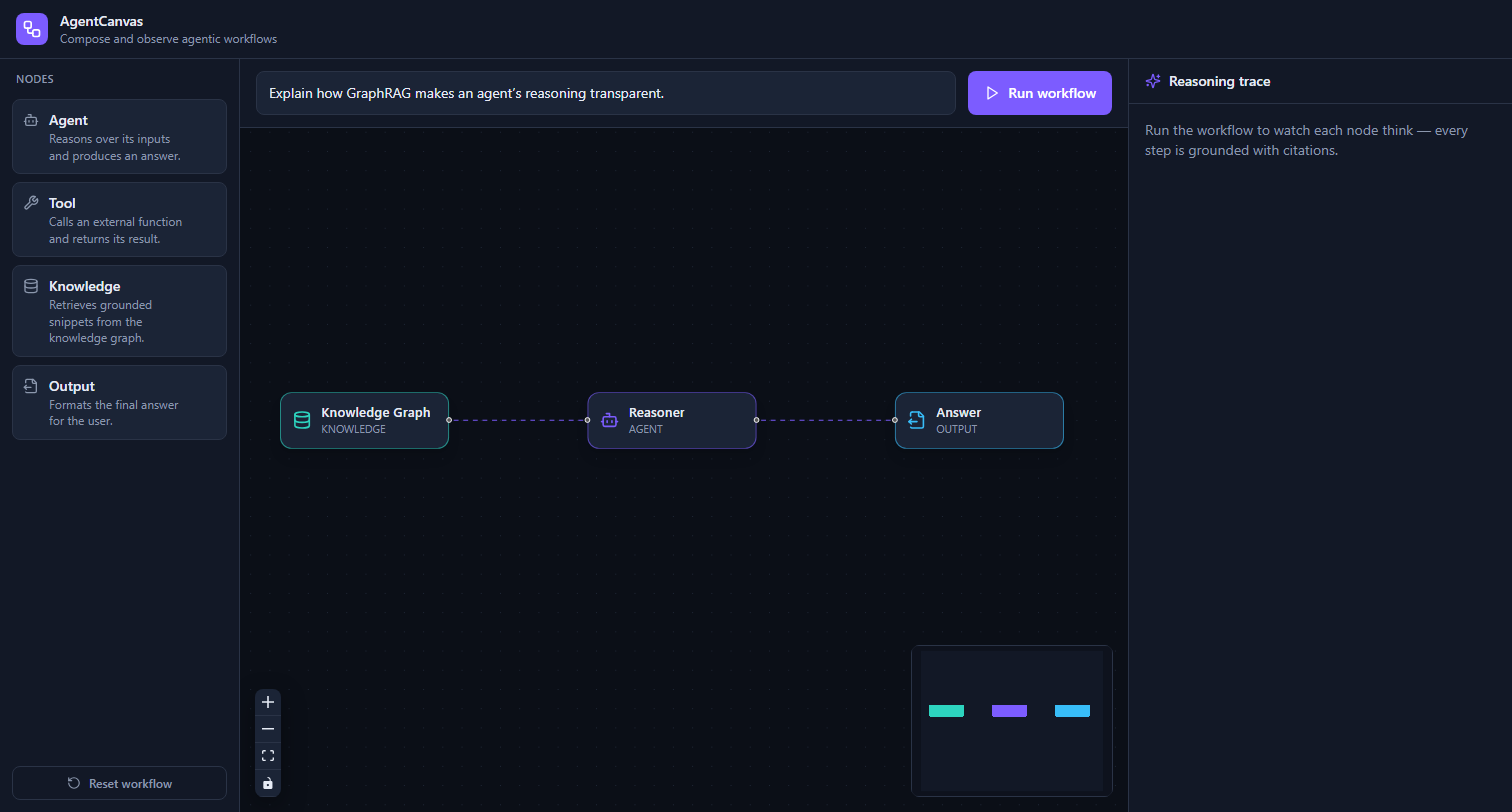
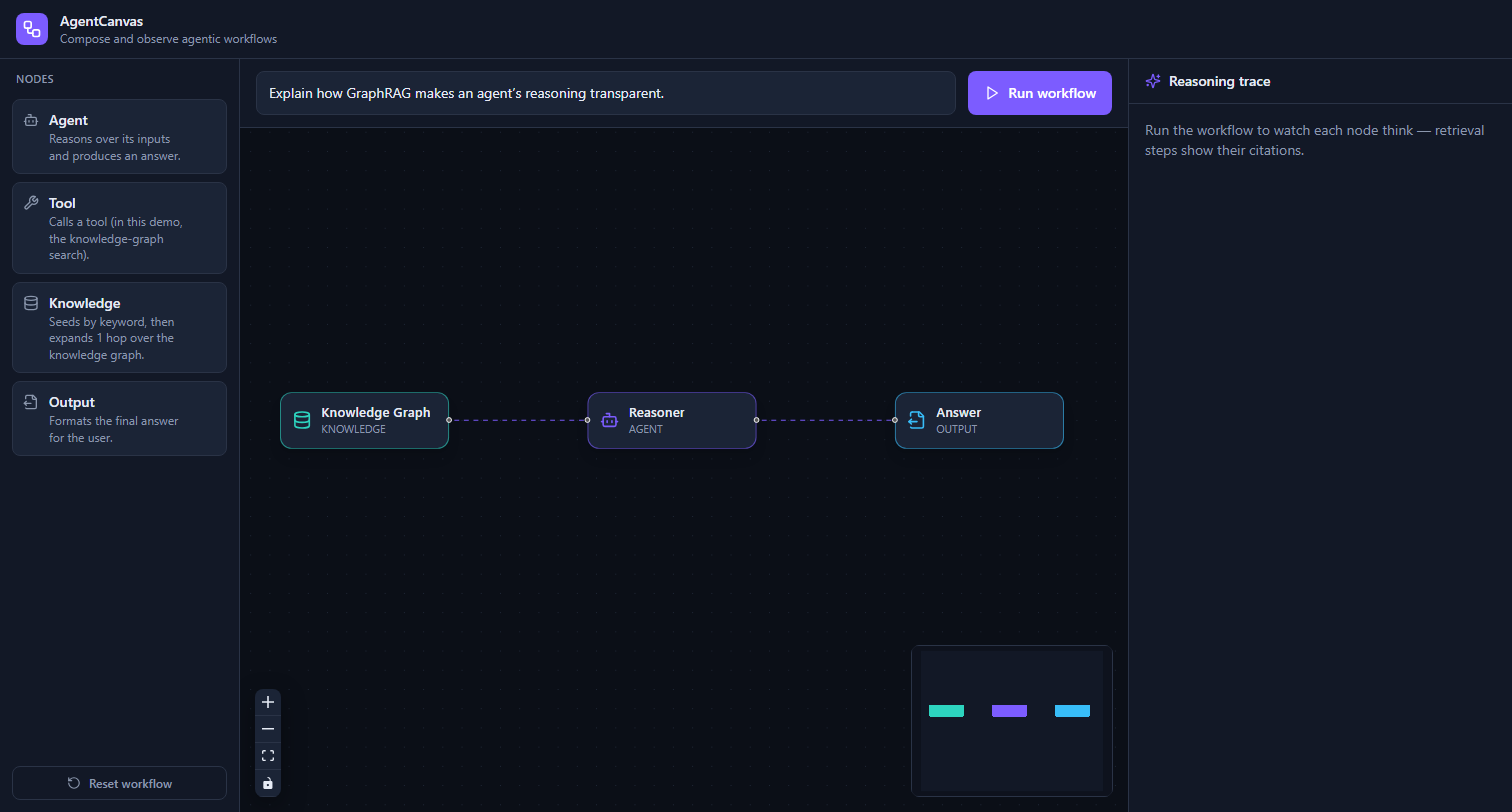
fix: stop in-app copy from claiming every step is cited
Only retrieval steps emit citations, and tool nodes call the same
knowledge-graph search. Recapture the screenshot with the corrected copy
and relabel the trace panel in the README diagram.

Changed region(s): [[0.0, 0.2463, 0.1243, 0.5542], [0.7771, 0.1847, 0.8704, 0.2155], [0.9325, 0.1539, 0.9947, 0.1847]]

diff --git a/web/src/components/RunPanel.vue b/web/src/components/RunPanel.vue
@@ -16,7 +16,7 @@ const { trace, finalOutput, errorMessage, status } = storeToRefs(store);
 
     <div class="flex-1 space-y-3 overflow-y-auto p-4">
       <p v-if="status === 'idle' && trace.length === 0" class="text-sm text-muted">
-        Run the workflow to watch each node think — every step is grounded with citations.
+        Run the workflow to watch each node think — retrieval steps show their citations.
       </p>
 
       <article

diff --git a/web/src/lib/nodeCatalog.ts b/web/src/lib/nodeCatalog.ts
@@ -28,7 +28,7 @@ export const NODE_CATALOG: Record<NodeKind, NodeKindMeta> = {
   tool: {
     kind: "tool",
     label: "Tool",
-    description: "Calls an external function and returns its result.",
+    description: "Calls a tool (in this demo, the knowledge-graph search).",
     icon: Wrench,
     accent: "tool",
   },

diff --git a/README.md b/README.md
@@ -37,7 +37,7 @@ flowchart LR
   subgraph Web["web: Vue 3 + VueFlow + Pinia"]
     Palette["Node palette"] --> Canvas["Workflow canvas"]
     Canvas --> Inspector["Inspector: label, system prompt"]
-    RunBtn["Run panel"] --> Trace["Live reasoning + citations"]
+    RunBtn["Run panel"] --> Trace["Run trace: reasoning, tool calls, citations"]
   end
 
   subgraph Contracts["server/src/agent/schema.ts (Zod)"]
